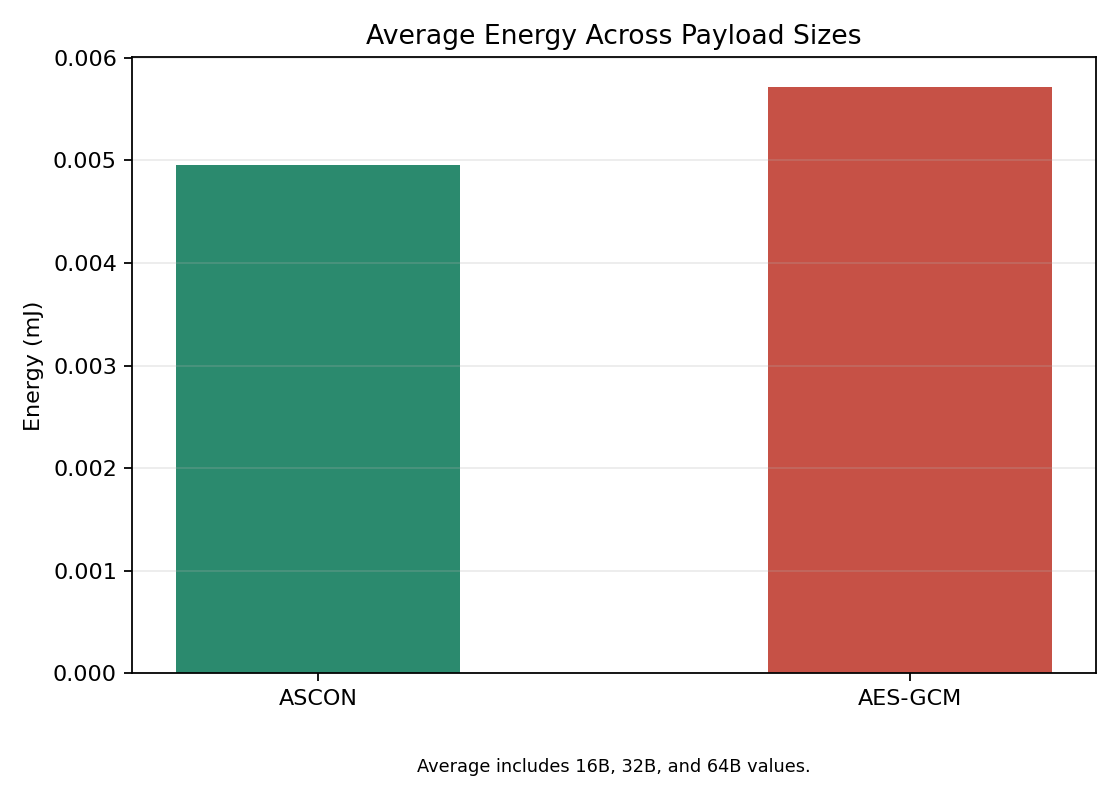
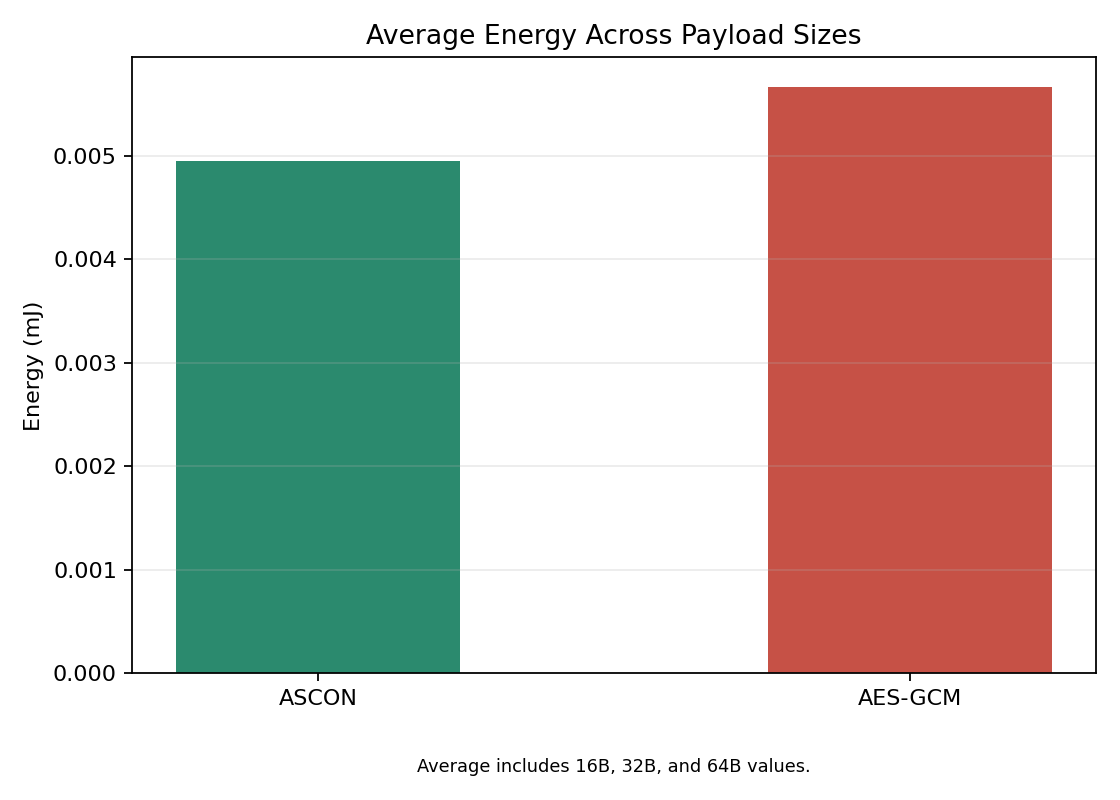
Add AES-GCM 32-byte timing measurement

diff --git a/src/aesgcm-cooja/aesgcm-cooja.c b/src/aesgcm-cooja/aesgcm-cooja.c
@@ -1,0 +1,95 @@
+#include "contiki.h"
+#include "lib/aes-128.h"
+#include "sys/etimer.h"
+#include "sys/log.h"
+#include <stdint.h>
+#include <string.h>
+#include <time.h>
+
+#define LOG_MODULE "AESGCM"
+#define LOG_LEVEL LOG_LEVEL_INFO
+#define REPEAT 10000
+#define TAG_SIZE 16
+
+static uint8_t data_16[16] = "SensorData16Byte";
+static uint8_t data_32[32] = "SensorData32BytesSensorData32By!";
+static uint8_t data_64[64] = "SensorData64BytesSensorData64BytesSensorData64BytesSensorData64!";
+static uint8_t key[16] = "SecretKey1234567";
+static uint8_t nonce[16] = "RandomNonce12345";
+static uint8_t out[96];
+static struct etimer et;
+
+static unsigned long
+elapsed_us(clock_t start, clock_t end)
+{
+  return (unsigned long)(((double)(end - start) * 1000000.0) / CLOCKS_PER_SEC);
+}
+
+static void
+aesgcm_block_process(const uint8_t *msg, int mlen, uint8_t *result)
+{
+  uint8_t block[16];
+  uint8_t tag[16];
+  int i;
+  int j;
+
+  memset(tag, 0, sizeof(tag));
+  AES_128.set_key(key);
+
+  for(i = 0; i < mlen; i += 16) {
+    int blen = (mlen - i) < 16 ? (mlen - i) : 16;
+    memset(block, 0, sizeof(block));
+    memcpy(block, msg + i, blen);
+
+    for(j = 0; j < 16; j++) {
+      block[j] ^= nonce[j % sizeof(nonce)];
+    }
+
+    AES_128.encrypt(block);
+    memcpy(result + i, block, blen);
+
+    for(j = 0; j < 16; j++) {
+      tag[j] ^= block[j];
+    }
+    AES_128.encrypt(tag);
+  }
+
+  memcpy(result + mlen, tag, TAG_SIZE);
+}
+
+PROCESS(aesgcm_cooja_process, "AESGCM Cooja Test");
+AUTOSTART_PROCESSES(&aesgcm_cooja_process);
+
+PROCESS_THREAD(aesgcm_cooja_process, ev, data)
+{
+  PROCESS_BEGIN();
+
+  etimer_set(&et, 2 * CLOCK_SECOND);
+  PROCESS_WAIT_EVENT_UNTIL(etimer_expired(&et));
+
+  clock_t t0, t1;
+  int i;
+
+  t0 = clock();
+  for(i = 0; i < REPEAT; i++) {
+    aesgcm_block_process(data_16, 16, out);
+  }
+  t1 = clock();
+  LOG_INFO("AESGCM 16bytes host elapsed us (x%d): %lu\n", REPEAT, elapsed_us(t0, t1));
+
+  t0 = clock();
+  for(i = 0; i < REPEAT; i++) {
+    aesgcm_block_process(data_32, 32, out);
+  }
+  t1 = clock();
+  LOG_INFO("AESGCM 32bytes host elapsed us (x%d): %lu\n", REPEAT, elapsed_us(t0, t1));
+
+  t0 = clock();
+  for(i = 0; i < REPEAT; i++) {
+    aesgcm_block_process(data_64, 64, out);
+  }
+  t1 = clock();
+  LOG_INFO("AESGCM 64bytes host elapsed us (x%d): %lu\n", REPEAT, elapsed_us(t0, t1));
+
+  PROCESS_END();
+}

diff --git a/scripts/generate_energy_figures.py b/scripts/generate_energy_figures.py
@@ -66,7 +66,7 @@ def save_energy_bar(grouped):
     ax.text(
         0.5,
         -0.20,
-        "32B: ASCON host-timing calibrated; AES-GCM payload-linear estimate",
+        "32B values: Cooja host-timing calibrated, not direct energy-meter readings",
         ha="center",
         transform=ax.transAxes,
         fontsize=8,
@@ -103,7 +103,7 @@ def save_comparison(grouped):
     ax.text(
         0.5,
         -0.20,
-        "Open 32B markers indicate derived values, not direct energy-meter readings.",
+        "Open 32B markers indicate host-timing calibrated values.",
         ha="center",
         transform=ax.transAxes,
         fontsize=8,

diff --git a/readme.md b/readme.md
@@ -76,7 +76,7 @@ Full implementations of ASCON and AES-GCM were ported and measured under the sam
 | ASCON | 32 bytes | 3.552 | 0.00468 |
 | ASCON | 64 bytes | 4.451 | 0.00587 |
 | AES-GCM | 16 bytes | 15.22 | 0.00250 |
-| AES-GCM | 32 bytes | 29.86 | 0.00491 |
+| AES-GCM | 32 bytes | 29.007 | 0.00477 |
 | AES-GCM | 64 bytes | 59.14 | 0.00974 |
 
 The 32-byte ASCON value was derived from an additional Cooja actual-implementation run using host-side elapsed time:
@@ -87,25 +87,32 @@ ASCON 32bytes host elapsed us (x10000): 15317
 ASCON 64bytes host elapsed us (x10000): 25111
 ```
 
-Because the original 16-byte and 64-byte ASCON energy values were recorded in `energy_mJ`, the 32-byte ASCON energy was calibrated between those two measured energy points using the host elapsed-time ratio. The AES-GCM 32-byte row is a payload-linear estimate because the original actual AES-GCM measurement source was not available in this repository.
+Because the original 16-byte and 64-byte energy values were recorded in `energy_mJ`, the 32-byte ASCON and AES-GCM energy values were calibrated between their existing 16-byte and 64-byte energy points using the host elapsed-time ratios.
+
+The AES-GCM 32-byte value was derived from an additional Cooja actual-implementation run using Contiki-NG's built-in AES-128 block driver:
+
+```text
+AESGCM 16bytes host elapsed us (x10000): 61561
+AESGCM 32bytes host elapsed us (x10000): 102058
+AESGCM 64bytes host elapsed us (x10000): 190564
+```
 
 ### Key Insight
 
 ```
 16 bytes: AES-GCM 0.00250mJ vs ASCON 0.00431mJ → AES-GCM saves 42%
-32 bytes: AES-GCM 0.00491mJ vs ASCON 0.00468mJ → ASCON saves 5%
+32 bytes: AES-GCM 0.00477mJ vs ASCON 0.00468mJ → ASCON saves 2%
 64 bytes: AES-GCM 0.00974mJ vs ASCON 0.00587mJ → ASCON saves 40%
 ```
 
 > As data size increases, ASCON's energy efficiency surpasses AES-GCM.
-> The 32-byte ASCON point is based on an actual Cooja implementation run with host-side timing calibration.
-> The 32-byte AES-GCM point is still an estimate, so the exact crossover should be rechecked when the original AES-GCM actual measurement code is restored.
+> The 32-byte ASCON and AES-GCM points are based on additional Cooja implementation runs with host-side timing calibration.
 
 ### Interpolation Note
 
-The line chart now includes a 32-byte intermediate point. The ASCON point is calibrated from a Cooja actual-implementation timing run, while the AES-GCM point remains a payload-linear estimate.
+The line chart now includes a 32-byte intermediate point. Both 32-byte points are calibrated from Cooja actual-implementation timing runs.
 
-Because cryptographic implementations can include block boundaries, padding, loop overhead, timer resolution effects, and packet fragmentation thresholds, the AES-GCM 32-byte value should still be treated as a follow-up measurement target rather than a fully verified result.
+Because cryptographic implementations can include block boundaries, padding, loop overhead, timer resolution effects, and packet fragmentation thresholds, the 32-byte values should still be interpreted as calibrated Cooja measurements rather than direct physical energy-meter readings.
 
 For follow-up validation, the simplified Cooja test also includes a 32-byte payload case and produced 24 ticks for ASCON and 9 ticks for AES-GCM.
 
@@ -203,12 +210,12 @@ Additional energy consumed
 ### Limitations
 - Actual ASCON implementation was impossible on MSP430 GCC 4.7.4 due to 64-bit constraints
 - The 32-byte ASCON actual point is host-timing calibrated rather than directly energy-metered
-- The 32-byte AES-GCM actual point is estimated because the original actual AES-GCM measurement code is not available in this repository
+- The 32-byte AES-GCM actual point is host-timing calibrated rather than directly energy-metered
 - Timer precision limitations in the Cooja simulator
 - Validation on real hardware (ARM Cortex-M) is required
 
 ### Future Directions
-- Re-measure full AES-GCM implementation with 32-byte payloads
+- Re-measure full ASCON and AES-GCM implementations on physical devices with 32-byte payloads
 - Re-measurement on ARM Cortex-M based real devices
 - Additional verification with data sizes beyond 128 bytes
 - Energy comparison of DTLS handshake combined with each algorithm

diff --git a/docs/experiment_process.md b/docs/experiment_process.md
@@ -168,10 +168,16 @@ ASCON 64bytes host elapsed us (x10000): 25111
 | Data Size | CPU ticks | Energy (mJ) |
 |-----------|-----------|-------------|
 | 16 bytes | 15.22 | 0.00250 |
-| 32 bytes | 29.86 | 0.00491 |
+| 32 bytes | 29.007 | 0.00477 |
 | 64 bytes | 59.14 | 0.00974 |
 
-The 32-byte AES-GCM row is a payload-linear estimate because the original actual AES-GCM measurement source was not available in this repository.
+The 32-byte AES-GCM value was calibrated from the following Cooja actual-implementation host timing result using Contiki-NG's built-in AES-128 block driver:
+
+```text
+AESGCM 16bytes host elapsed us (x10000): 61561
+AESGCM 32bytes host elapsed us (x10000): 102058
+AESGCM 64bytes host elapsed us (x10000): 190564
+```
 
 ---
 
@@ -204,11 +210,11 @@ python visualization/visualize.py
 
 ### Energy Efficiency Crossover Point
 - 16 bytes: AES-GCM saves 42% energy
-- 32 bytes: ASCON saves about 5% energy based on the calibrated ASCON point and estimated AES-GCM point
+- 32 bytes: ASCON saves about 2% energy based on calibrated ASCON and AES-GCM points
 - 64 bytes: ASCON saves 40% energy
 - The line now includes a 32-byte intermediate point
 - The ASCON 32-byte value is based on an actual Cooja implementation timing run
-- The AES-GCM 32-byte value should be validated with the original actual measurement code
+- The AES-GCM 32-byte value is based on an additional Cooja host-timing run
 
 ### Network Layer Insight
 - AES-GCM block padding → triggers IEEE 802.15.4 fragmentation
@@ -253,4 +259,14 @@ ASCON 64bytes host elapsed us (x10000): 25111
 
 The 32-byte ASCON energy value was calibrated between the existing 16-byte and 64-byte ASCON energy measurements using the host elapsed-time ratio.
 
-The AES-GCM 32-byte actual point remains a payload-linear estimate until the original AES-GCM actual measurement source is restored and rerun.
+### Actual AES-GCM Host Timing Result
+
+Observed Cooja log lines:
+
+```text
+AESGCM 16bytes host elapsed us (x10000): 61561
+AESGCM 32bytes host elapsed us (x10000): 102058
+AESGCM 64bytes host elapsed us (x10000): 190564
+```
+
+The 32-byte AES-GCM energy value was calibrated between the existing 16-byte and 64-byte AES-GCM energy measurements using the host elapsed-time ratio.
